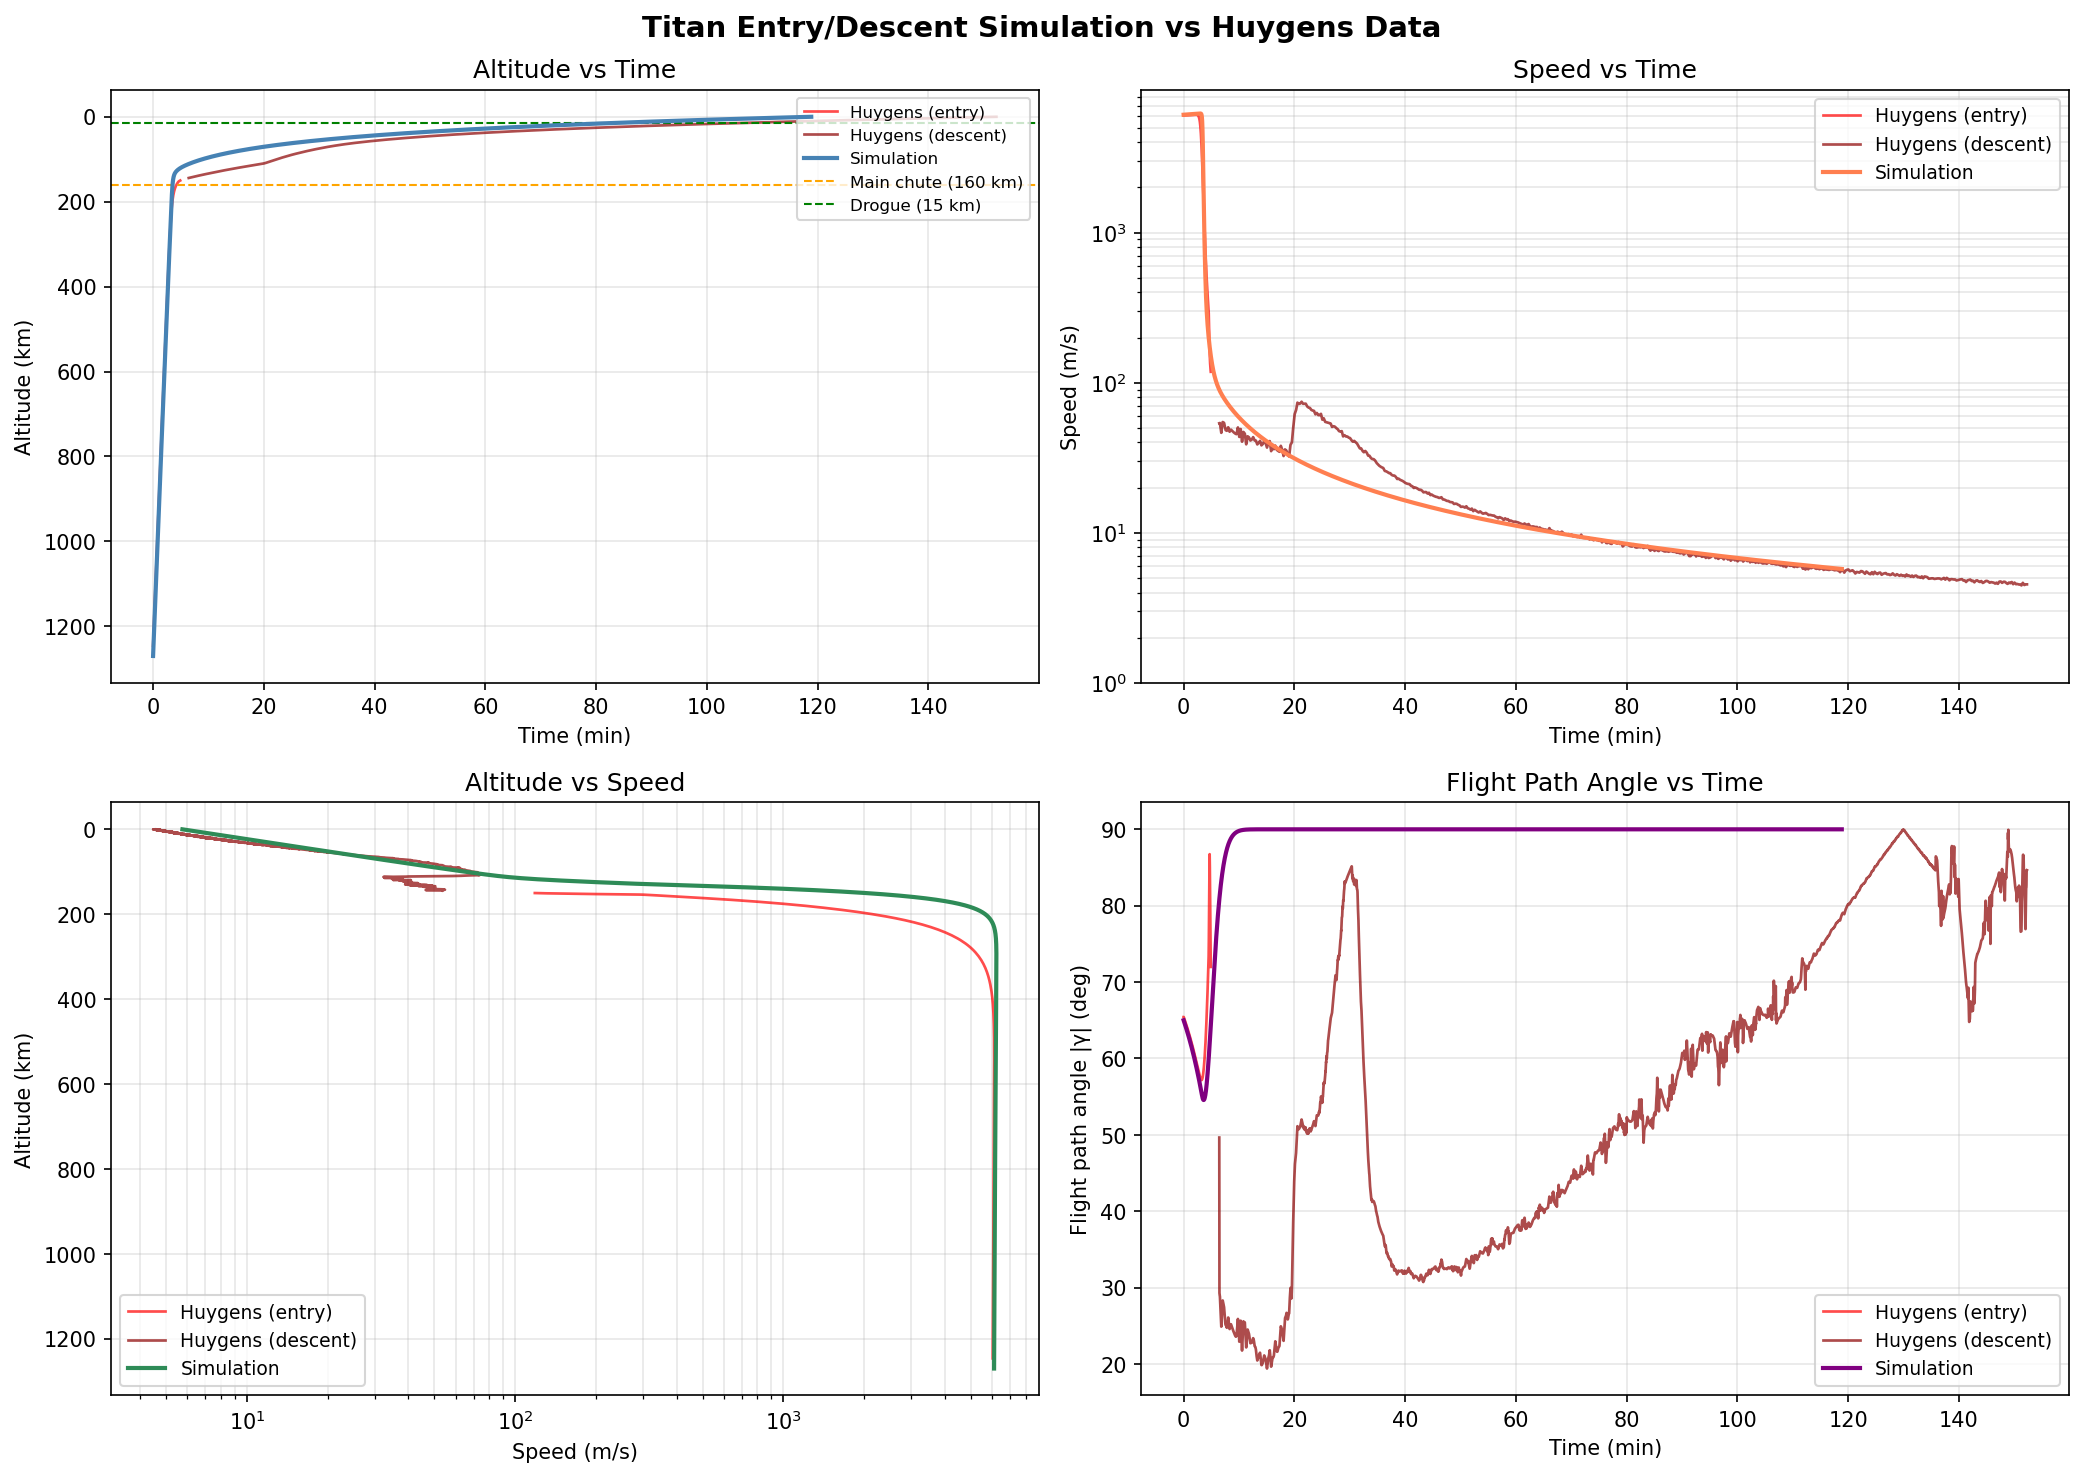
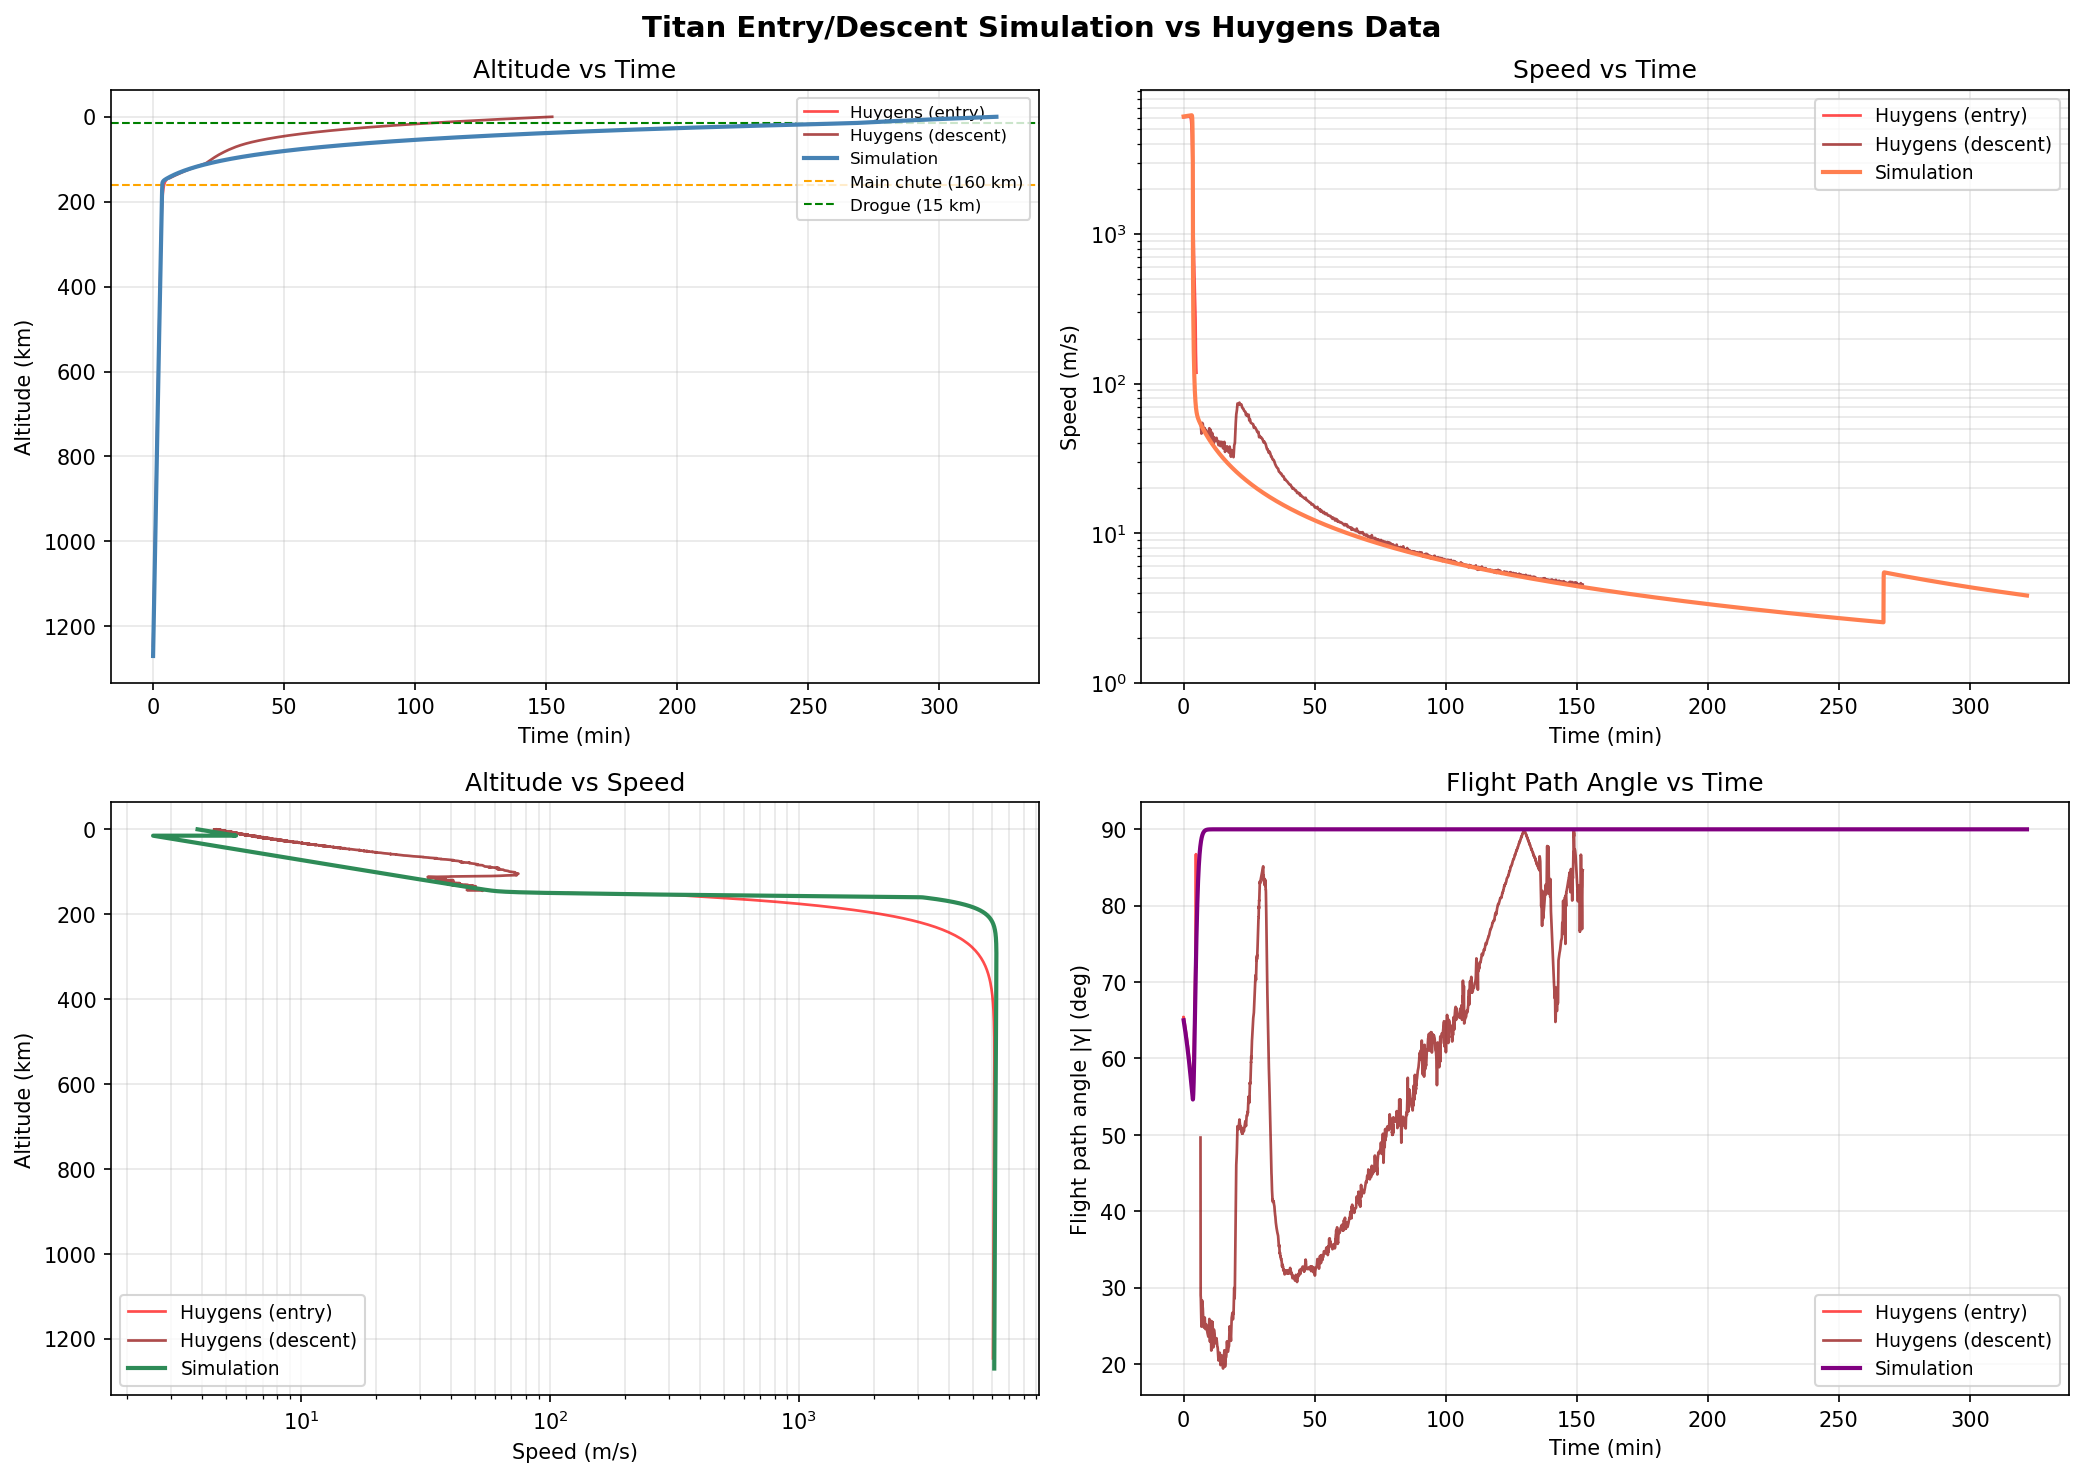
fixed

diff --git a/helper_func.py b/helper_func.py
@@ -10,17 +10,23 @@ def p_density(h):
 def g_accel(h):
     return constants.G * constants.MASS_T / (constants.RAD_T + h)**2
 def cda(h,V):
-
     c=speed_sound_interpol(h)
     mach=V/c
+
     if mach<=0.5:
-        return 0.93*constants.A_CAP
+        cd=0.93
     elif mach<=1.5:
-        cd=0.93+0.55*((3*(mach-0.5)**2)-2*(mach-0.5)**3)
-        return cd*constants.A_CAP
+        cd=0.93+0.55*((3*(mach-0.5)**2)-2*(mach-0.5)**3) 
     else:
-        return 1.48*constants.A_CAP
+        cd= 1.48
     
+    if h > constants.H_DEPLOY_MAIN:
+        return cd*constants.A_CAP
+        
+    elif h > constants.H_DEPLOY_DROGUE:
+        return cd*(constants.A_CAP + 54.1)   # main parachute open
+    else:
+        return cd *(constants.A_CAP+7.1)   # drogue / stabiliser
     
 
 def dV_dt(V, gamma, h):
